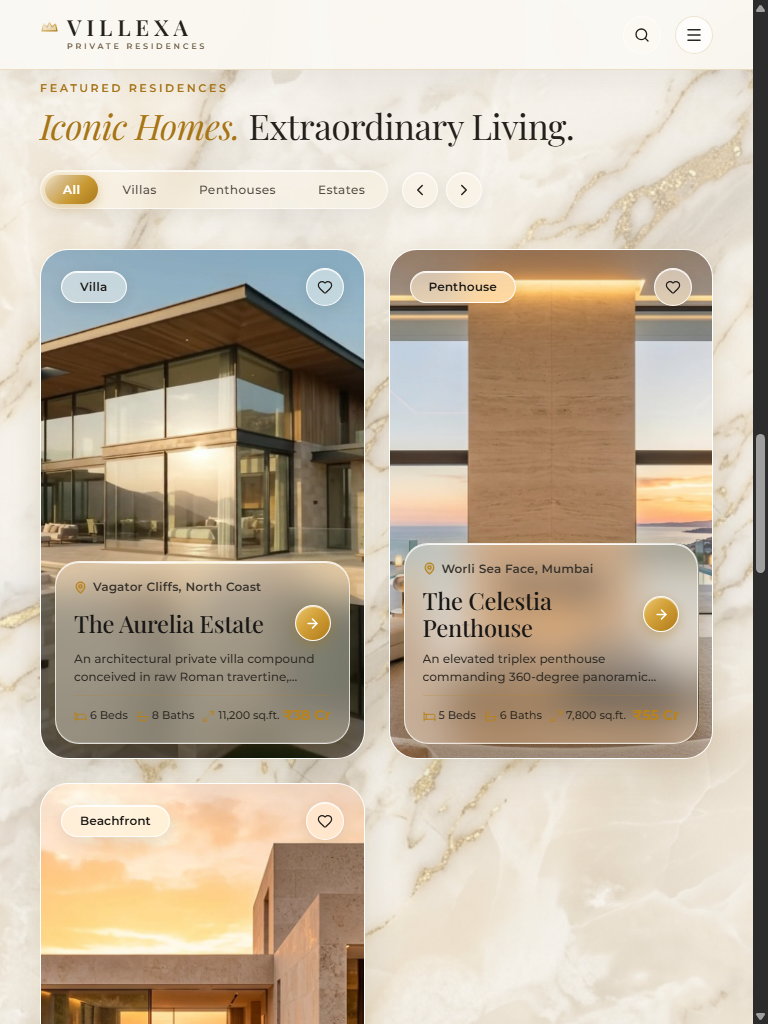
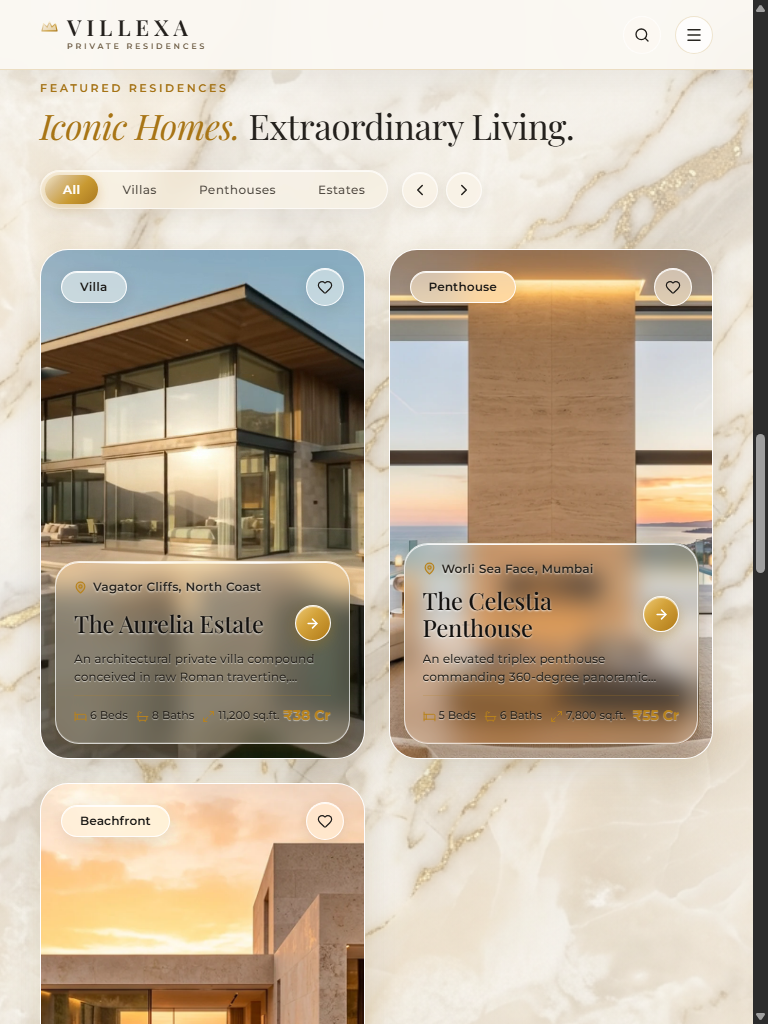
Update

diff --git a/src/components/property/PropertyCard.tsx b/src/components/property/PropertyCard.tsx
@@ -163,16 +163,6 @@ export const PropertyCard: React.FC<PropertyCardProps> = ({ property, priority =
             </span>
           </div>
         )}
-
-        {/* Extremely Subtle Vignette Gradient for natural contrast without darkening */}
-        <div
-          style={{
-            position: 'absolute',
-            inset: 0,
-            background: 'linear-gradient(to top, rgba(20, 16, 12, 0.10) 0%, transparent 45%)',
-            pointerEvents: 'none'
-          }}
-        />
       </div>
 
       {/* 2. TOP FLOATING BADGES OVER PHOTOGRAPHY: Category Badge & Favourite Heart */}
@@ -235,7 +225,7 @@ export const PropertyCard: React.FC<PropertyCardProps> = ({ property, priority =
         </button>
       </div>
 
-      {/* 3. FLOATING GLASS INFORMATION PANEL (Elevated Physical Slab) */}
+      {/* 3. FLOATING GLASS INFORMATION PANEL (Elevated Translucent Glass Slab) */}
       <div
         className="property-glass-card glass-panel-integrated floating-glass-panel"
         style={{
@@ -249,17 +239,17 @@ export const PropertyCard: React.FC<PropertyCardProps> = ({ property, priority =
           gap: '9px',
           borderRadius: '24px',
           background: isHovered
-            ? 'rgba(246, 239, 224, 0.44)'
-            : 'rgba(246, 239, 224, 0.38)',
-          backdropFilter: 'blur(18px) saturate(135%)',
-          WebkitBackdropFilter: 'blur(18px) saturate(135%)',
+            ? 'rgba(246, 239, 224, 0.26)'
+            : 'rgba(246, 239, 224, 0.20)',
+          backdropFilter: 'blur(12px) saturate(145%)',
+          WebkitBackdropFilter: 'blur(12px) saturate(145%)',
           border: isHovered
-            ? '1px solid rgba(255, 255, 255, 0.90)'
-            : '1px solid rgba(255, 255, 255, 0.72)',
+            ? '1px solid rgba(255, 255, 255, 0.85)'
+            : '1px solid rgba(255, 255, 255, 0.68)',
           transform: isHovered && !prefersReducedMotion ? 'translateY(-6px)' : 'translateY(0)',
           boxShadow: isHovered
-            ? '0 28px 65px rgba(48, 34, 19, 0.28), 0 10px 24px rgba(48, 34, 19, 0.14), 0 0 28px rgba(212, 163, 59, 0.22), inset 0 1px 0 rgba(255, 255, 255, 0.95), inset 0 -1px 0 rgba(255, 255, 255, 0.22)'
-            : '0 22px 55px rgba(48, 34, 19, 0.22), 0 6px 18px rgba(48, 34, 19, 0.10), 0 0 20px rgba(212, 163, 59, 0.14), inset 0 1px 0 rgba(255, 255, 255, 0.85), inset 0 -1px 0 rgba(255, 255, 255, 0.18)',
+            ? '0 26px 58px rgba(48, 34, 19, 0.26), 0 10px 22px rgba(48, 34, 19, 0.12), 0 0 24px rgba(212, 163, 59, 0.18), inset 0 1px 0 rgba(255, 255, 255, 0.95), inset 0 -1px 0 rgba(255, 255, 255, 0.22)'
+            : '0 20px 48px rgba(48, 34, 19, 0.20), 0 6px 16px rgba(48, 34, 19, 0.10), 0 0 16px rgba(212, 163, 59, 0.10), inset 0 1px 0 rgba(255, 255, 255, 0.85), inset 0 -1px 0 rgba(255, 255, 255, 0.18)',
           transition: 'transform 0.4s cubic-bezier(0.16, 1, 0.3, 1), box-shadow 0.4s cubic-bezier(0.16, 1, 0.3, 1), border-color 0.35s ease, background 0.35s ease'
         }}
       >
@@ -285,10 +275,11 @@ export const PropertyCard: React.FC<PropertyCardProps> = ({ property, priority =
             display: 'inline-flex',
             alignItems: 'center',
             gap: '6px',
-            color: '#36322C',
+            color: '#26221C',
             fontSize: '11.5px',
             letterSpacing: '0.04em',
-            fontWeight: 550
+            fontWeight: 550,
+            textShadow: '0 1px 2px rgba(255, 255, 255, 0.7)'
           }}
         >
           <MapPin size={13} strokeWidth={2.2} color="#B8831E" fill="#B8831E" fillOpacity={0.2} />
@@ -301,11 +292,12 @@ export const PropertyCard: React.FC<PropertyCardProps> = ({ property, priority =
             style={{
               fontSize: 'clamp(1.3rem, 3.5vw, 1.48rem)',
               fontFamily: 'var(--font-serif)',
-              color: '#1A1816',
+              color: '#141210',
               fontWeight: 500,
               lineHeight: 1.15,
               margin: 0,
-              letterSpacing: '-0.01em'
+              letterSpacing: '-0.01em',
+              textShadow: '0 1px 2px rgba(255, 255, 255, 0.8)'
             }}
           >
             <Link
@@ -349,14 +341,15 @@ export const PropertyCard: React.FC<PropertyCardProps> = ({ property, priority =
         <p
           style={{
             fontSize: '12px',
-            color: '#2E2A24',
+            color: '#24201A',
             lineHeight: 1.5,
             margin: 0,
             display: '-webkit-box',
             WebkitLineClamp: 2,
             WebkitBoxOrient: 'vertical',
             overflow: 'hidden',
-            fontWeight: 450
+            fontWeight: 450,
+            textShadow: '0 1px 1px rgba(255, 255, 255, 0.6)'
           }}
         >
           {property.description || property.tagline}
@@ -371,9 +364,10 @@ export const PropertyCard: React.FC<PropertyCardProps> = ({ property, priority =
             paddingTop: '9px',
             borderTop: '1px solid rgba(184, 131, 30, 0.22)',
             fontSize: '11px',
-            color: '#2E2A24',
+            color: '#24201A',
             fontWeight: 500,
-            gap: '8px'
+            gap: '8px',
+            textShadow: '0 1px 1px rgba(255, 255, 255, 0.5)'
           }}
         >
           <div style={{ display: 'flex', alignItems: 'center', gap: '8px', minWidth: 0, flexWrap: 'nowrap' }}>

diff --git a/src/styles/main.css b/src/styles/main.css
@@ -590,17 +590,17 @@ a {
 .glass-property-card,
 .glass-panel-integrated,
 .floating-glass-panel {
-  background: rgba(246, 239, 224, 0.38);
-  backdrop-filter: blur(18px) saturate(135%);
-  -webkit-backdrop-filter: blur(18px) saturate(135%);
+  background: rgba(246, 239, 224, 0.20);
+  backdrop-filter: blur(12px) saturate(145%);
+  -webkit-backdrop-filter: blur(12px) saturate(145%);
 
-  border: 1px solid rgba(255, 255, 255, 0.72);
-  border-radius: 26px;
+  border: 1px solid rgba(255, 255, 255, 0.68);
+  border-radius: 24px;
 
   box-shadow:
-    0 22px 55px rgba(48, 34, 19, 0.22),
-    0 6px 18px rgba(48, 34, 19, 0.10),
-    0 0 20px rgba(212, 163, 59, 0.14),
+    0 20px 48px rgba(48, 34, 19, 0.20),
+    0 6px 16px rgba(48, 34, 19, 0.10),
+    0 0 16px rgba(212, 163, 59, 0.10),
     inset 0 1px 0 rgba(255, 255, 255, 0.85),
     inset 0 -1px 0 rgba(255, 255, 255, 0.18);
   color: #1E1C19;
@@ -612,12 +612,12 @@ a {
 .glass-panel-integrated:hover,
 .floating-glass-panel:hover {
   transform: translateY(-6px);
-  background: rgba(246, 239, 224, 0.44);
-  border-color: rgba(255, 255, 255, 0.90);
+  background: rgba(246, 239, 224, 0.26);
+  border-color: rgba(255, 255, 255, 0.85);
   box-shadow:
-    0 28px 65px rgba(48, 34, 19, 0.28),
-    0 10px 24px rgba(48, 34, 19, 0.14),
-    0 0 28px rgba(212, 163, 59, 0.22),
+    0 26px 58px rgba(48, 34, 19, 0.26),
+    0 10px 22px rgba(48, 34, 19, 0.12),
+    0 0 24px rgba(212, 163, 59, 0.18),
     inset 0 1px 0 rgba(255, 255, 255, 0.95),
     inset 0 -1px 0 rgba(255, 255, 255, 0.22);
 }

diff --git a/src/styles/tokens.css b/src/styles/tokens.css
@@ -123,11 +123,11 @@
   --glass-crystal-blur: 18px;
 
   /* 2. WARM CHAMPAGNE GLASS (Warm champagne tint, transparent surface, refined reflections) */
-  --glass-champagne-bg: rgba(246, 239, 224, 0.38);
-  --glass-champagne-border: rgba(255, 255, 255, 0.72);
+  --glass-champagne-bg: rgba(246, 239, 224, 0.20);
+  --glass-champagne-border: rgba(255, 255, 255, 0.68);
   --glass-champagne-highlight: inset 0 1px 0 rgba(255, 255, 255, 0.85);
-  --glass-champagne-shadow: 0 22px 55px rgba(48, 34, 19, 0.22), 0 6px 18px rgba(48, 34, 19, 0.10), 0 0 20px rgba(212, 163, 59, 0.14), inset 0 1px 0 rgba(255, 255, 255, 0.85), inset 0 -1px 0 rgba(255, 255, 255, 0.18);
-  --glass-champagne-blur: 18px;
+  --glass-champagne-shadow: 0 20px 48px rgba(48, 34, 19, 0.20), 0 6px 16px rgba(48, 34, 19, 0.10), 0 0 16px rgba(212, 163, 59, 0.10), inset 0 1px 0 rgba(255, 255, 255, 0.85), inset 0 -1px 0 rgba(255, 255, 255, 0.18);
+  --glass-champagne-blur: 12px;
 
   /* 3. GOLD-EDGE CRYSTAL GLASS (Transparent crystal glass with metallic-gold edge & specular highlights) */
   --glass-gold-edge-bg: rgba(255, 250, 240, 0.28);
